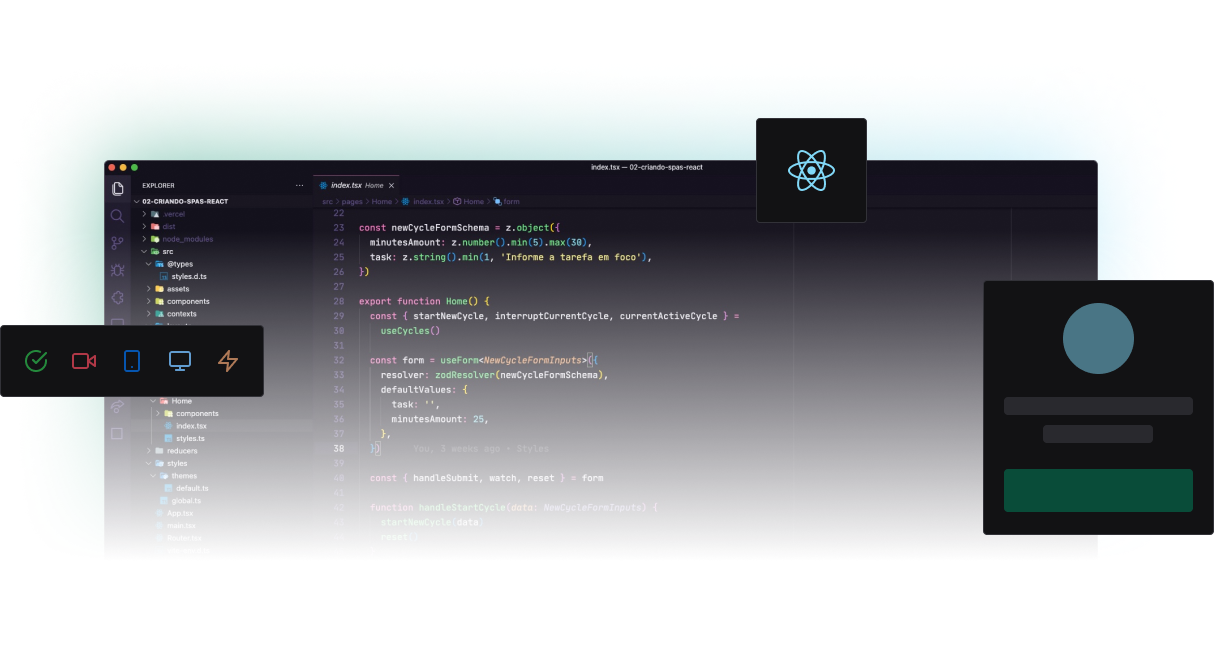
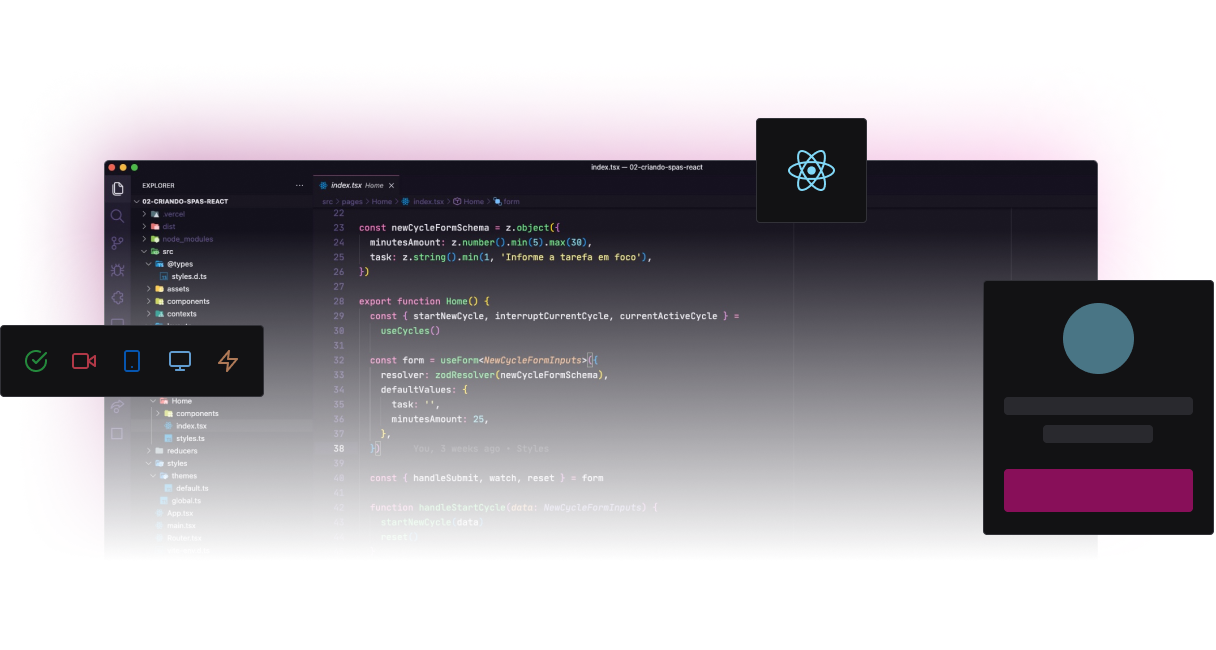
feat: 💄 update colors

diff --git a/src/components/Logo.tsx b/src/components/Logo.tsx
@@ -1,21 +1,6 @@
-export const Logo = () => {
-  return (
-    <svg
-      xmlns="http://www.w3.org/2000/svg"
-      width="237"
-      height="34"
-      fill="none"
-      viewBox="0 0 237 34"
-    >
-      <path
-        fill="#fff"
-        d="M.002 3.112a2.49 2.49 0 01.165-.987c.12-.314.304-.595.535-.83A2.906 2.906 0 012.615.572c.698 0 1.374.257 1.912.723.23.24.412.524.536.837a2.701 2.701 0 010 1.979 2.568 2.568 0 01-.536.837 2.889 2.889 0 01-1.907.723 2.901 2.901 0 01-1.908-.723 2.458 2.458 0 01-.538-.84 2.645 2.645 0 01-.172-.996zm4.96 23.146H.273V7.862h4.689v18.397zM8.012 16.973c0-2.853.686-5.145 2.055-6.883a6.653 6.653 0 015.528-2.606 5.869 5.869 0 014.802 2.09l.2-1.751h4.538v17.95a7.891 7.891 0 01-1.12 4.246 7.243 7.243 0 01-3.147 2.752 11.155 11.155 0 01-4.742.94c-1.378 0-2.74-.279-4.008-.812a7.08 7.08 0 01-2.946-2.11l2.208-3.02a5.905 5.905 0 004.543 2.08 4.356 4.356 0 003.104-1.059 3.938 3.938 0 001.103-2.993v-.994a5.775 5.775 0 01-4.555 1.935 6.647 6.647 0 01-3.05-.652 6.615 6.615 0 01-2.408-1.967c-1.397-1.752-2.085-4.089-2.085-6.942v-.21h-.025l.005.006zm4.997.355a6.723 6.723 0 001.026 3.956 3.233 3.233 0 002.799 1.443c.651.045 1.3-.088 1.878-.39a3.52 3.52 0 001.396-1.305v-7.825a3.448 3.448 0 00-1.374-1.305 3.504 3.504 0 00-1.86-.39 3.28 3.28 0 00-1.61.365 3.22 3.22 0 00-1.219 1.103c-.688.975-1.036 2.418-1.036 4.348zM33.098 7.833l.158 2.196a6.527 6.527 0 012.371-1.927 6.38 6.38 0 012.971-.62c1.97 0 3.438.597 4.39 1.79.953 1.194 1.456 2.936 1.486 5.293v12.249h-4.962V14.683a3.367 3.367 0 00-.684-2.344 3.086 3.086 0 00-1.069-.598 3.008 3.008 0 00-1.211-.13 3.349 3.349 0 00-1.821.454c-.553.32-1.01.794-1.313 1.367v13.37H28.45V7.845l4.647-.012zM47.512 3.112a2.304 2.304 0 01.185-.988 2.42 2.42 0 01.59-.831A3.439 3.439 0 0150.404.57c.772 0 1.52.256 2.117.723.508.486.792 1.142.792 1.826 0 .683-.284 1.34-.792 1.826a3.417 3.417 0 01-2.11.723c-.77 0-1.517-.257-2.11-.723a2.47 2.47 0 01-.594-.839 2.342 2.342 0 01-.19-.994h-.005zm5.483 23.149h-5.18V7.86h5.18v18.4zM62.454 3.334v4.612h3.107v3.677h-3.107v9.382c-.05.53.091 1.063.395 1.495a1.824 1.824 0 001.473.45c.476.002.95-.035 1.421-.114v3.803a9.672 9.672 0 01-2.939.449c-3.398 0-5.128-1.775-5.19-5.32V11.644h-2.642V7.968h2.643V3.356h4.841v-.025l-.002.003zM76.487 27.08a9.277 9.277 0 01-6.759-2.55c-1.74-1.699-2.605-3.957-2.605-6.797v-.494a11.295 11.295 0 011.098-5.08 8.141 8.141 0 013.111-3.465 8.72 8.72 0 014.59-1.22c2.577 0 4.62.815 6.098 2.449 1.478 1.633 2.226 3.94 2.226 6.929v2.055h-12.01a4.665 4.665 0 001.473 2.971 4.487 4.487 0 003.111 1.111 5.426 5.426 0 004.548-2.115l2.476 2.781a7.506 7.506 0 01-3.07 2.507 9.81 9.81 0 01-4.287.916v.002zm-.594-15.514a3.127 3.127 0 00-2.428 1.012 5.405 5.405 0 00-1.188 2.912h7.006v-.405a3.749 3.749 0 00-.908-2.608 3.252 3.252 0 00-2.45-.908h-.03l-.002-.003zM97.771 26.259h-4.957V0h4.957V26.26zM112.209 26.259c-.227-.444-.392-.997-.496-1.659-1.196 1.333-2.751 2.002-4.666 2.002-1.811 0-3.314-.523-4.504-1.572-1.191-1.049-1.786-2.372-1.786-3.966 0-1.96.725-3.464 2.179-4.513 1.453-1.049 3.553-1.58 6.3-1.59h2.273v-1.06c0-.854-.22-1.54-.659-2.051-.44-.513-1.131-.77-2.078-.77-.832 0-1.486.2-1.957.6-.474.4-.708.945-.708 1.64h-4.941c0-1.07.331-2.062.992-2.973.662-.91 1.597-1.626 2.804-2.144 1.206-.518 2.564-.778 4.069-.778 2.28 0 4.089.573 5.429 1.718 1.34 1.145 2.009 2.756 2.009 4.83v8.017c.012 1.754.256 3.082.735 3.983v.29h-4.992l-.003-.004zm-4.086-3.435c.728 0 1.402-.163 2.016-.486.614-.326 1.071-.76 1.367-1.308v-3.181h-1.846c-2.472 0-3.79.854-3.948 2.564l-.017.291c0 .614.217 1.123.649 1.523.434.4 1.026.6 1.779.6v-.003zM136.58 17.183c0 2.963-.632 5.273-1.898 6.931-1.265 1.659-3.032 2.488-5.3 2.488-2.006 0-3.608-.77-4.805-2.308l-.222 1.967h-4.444V.001h4.94v9.418c1.14-1.332 2.638-2 4.496-2 2.256 0 4.025.828 5.308 2.487 1.283 1.658 1.923 3.992 1.923 7v.274l.002.003zm-4.94-.358c0-1.868-.296-3.233-.889-4.094-.592-.861-1.475-1.29-2.65-1.29-1.572 0-2.655.643-3.247 1.932v7.299c.604 1.298 1.697 1.95 3.282 1.95 1.584 0 2.643-.788 3.146-2.36.239-.752.358-1.897.358-3.437z"
-      ></path>
-      <path
-        fill="#C4C4CC"
-        d="M164.51 17.501h-2.283v4.53h-2.048v-11.78h4.143c1.36 0 2.408.306 3.149.915.74.61 1.108 1.493 1.108 2.648 0 .787-.19 1.449-.57 1.98-.38.532-.911.94-1.59 1.226l2.646 4.906v.106h-2.194l-2.364-4.531h.003zm-2.283-1.65h2.105c.691 0 1.229-.176 1.619-.524.39-.348.582-.824.582-1.429 0-.604-.18-1.12-.538-1.466-.358-.345-.893-.523-1.606-.533h-2.162V15.85zM179.066 16.773h-4.839v3.625h5.656v1.634h-7.704V10.25h7.648v1.65h-5.6v3.253h4.839v1.62zM189.803 19.29h-4.565l-.955 2.744h-2.127l4.452-11.783h1.836l4.459 11.783h-2.137l-.963-2.744zm-3.99-1.65h3.415l-1.707-4.89-1.708 4.89zM204.716 18.197c-.119 1.256-.583 2.238-1.392 2.941-.81.703-1.885 1.056-3.228 1.056-.938 0-1.764-.222-2.48-.668-.715-.445-1.266-1.079-1.656-1.898-.387-.82-.589-1.772-.607-2.858v-1.1c0-1.11.198-2.09.59-2.937.392-.846.96-1.5 1.695-1.96.736-.458 1.587-.688 2.554-.688 1.301 0 2.347.353 3.139 1.057.792.703 1.254 1.7 1.385 2.99h-2.039c-.096-.846-.343-1.458-.74-1.833-.397-.375-.977-.563-1.745-.563-.89 0-1.574.326-2.05.977-.479.652-.721 1.605-.733 2.863v1.044c0 1.273.227 2.245.683 2.917.457.668 1.123 1.004 2.004 1.004.805 0 1.409-.18 1.814-.543.405-.363.661-.962.77-1.804h2.038l-.002.003zM216.481 11.902h-3.674v10.132h-2.031V11.902h-3.642V10.25h9.347v1.65zM222.759 10.251h2.039v8.262c0 1.127-.353 2.023-1.057 2.687-.703.664-1.633.995-2.788.995-1.229 0-2.179-.311-2.848-.93-.669-.62-1.004-1.484-1.004-2.59h2.038c0 .627.156 1.096.467 1.412.31.316.76.474 1.347.474.55 0 .989-.183 1.315-.545.326-.366.489-.867.489-1.51V10.25h.002zM234.952 18.999c0-.518-.183-.918-.545-1.197-.363-.279-1.022-.563-1.972-.849-.95-.286-1.705-.604-2.265-.955-1.074-.674-1.612-1.555-1.612-2.638 0-.95.388-1.732 1.163-2.347.774-.614 1.779-.922 3.015-.922.819 0 1.55.15 2.194.454a3.597 3.597 0 011.513 1.29c.367.558.55 1.177.55 1.858h-2.038c0-.614-.193-1.095-.578-1.443-.385-.348-.938-.524-1.656-.524-.668 0-1.189.144-1.557.43-.37.286-.555.686-.555 1.197 0 .432.2.792.6 1.08.399.29 1.056.57 1.974.842.918.271 1.653.582 2.208.93.556.348.963.748 1.222 1.197.259.452.387.977.387 1.582 0 .982-.375 1.762-1.127 2.342-.753.58-1.775.87-3.063.87a5.755 5.755 0 01-2.352-.473c-.715-.316-1.27-.75-1.668-1.308-.397-.555-.594-1.204-.594-1.942h2.048c0 .669.222 1.187.664 1.555.441.367 1.075.55 1.902.55.713 0 1.246-.143 1.607-.432.357-.288.538-.671.538-1.145l-.003-.002z"
-      ></path>
-      <path fill="#00B37E" d="M150.271 33.146h-4.958V.57h4.958v32.576z"></path>
-    </svg>
-  );
+import { ReactElement } from "react";
+import logoImg from "../../src/assets/eventx.svg";
+
+export const Logo = (): ReactElement => {
+  return <img src={logoImg} alt="" width={144} />;
 };

diff --git a/src/components/Video.tsx b/src/components/Video.tsx
@@ -55,7 +55,7 @@ export const Video = (): ReactElement => {
             {data.lesson.teacher && (
               <div className="flex items-center gap-4 mt-6">
                 <img
-                  className="h-16 w-16 rounded-full border-2 border-blue-500"
+                  className="h-16 w-16 rounded-full border-2 border-pink-500"
                   src={data.lesson.teacher.avatarURL}
                   alt={data.lesson.teacher.name}
                 />
@@ -75,7 +75,7 @@ export const Video = (): ReactElement => {
           <div className="flex flex-col gap-4">
             <a
               href=""
-              className="p-4 text-sm bg-green-500 flex items-center rounded font-bold uppercase gap-2 justify-center hover:bg-green-700 transition-colors"
+              className="p-4 text-sm bg-pink-500 flex items-center rounded font-bold uppercase gap-2 justify-center hover:bg-pink-700 transition-colors"
             >
               <DiscordLogo size={24} />
               Discord
@@ -96,7 +96,7 @@ export const Video = (): ReactElement => {
             href=""
             className="bg-gray-700 rounded overflow-hidden flex items-stretch gap-6 hover:bg-gray-600 transition-colors"
           >
-            <div className="bg-green-700 h-full p-6 flex items-center">
+            <div className="bg-pink-700 h-full p-6 flex items-center">
               <FileArrowDown size={40} />
             </div>
             <div className="py-6 leading-relaxed">
@@ -115,7 +115,7 @@ export const Video = (): ReactElement => {
             href=""
             className="bg-gray-700 rounded overflow-hidden flex items-stretch gap-6 hover:bg-gray-600 transition-colors"
           >
-            <div className="bg-green-700 h-full p-6 flex items-center">
+            <div className="bg-pink-700 h-full p-6 flex items-center">
               <FileArrowDown size={40} />
             </div>
             <div className="py-6 leading-relaxed">

diff --git a/src/pages/Subscribe.tsx b/src/pages/Subscribe.tsx
@@ -1,10 +1,10 @@
 import { FormEvent, ReactElement, useState } from "react";
 import { useNavigate } from "react-router-dom";
 
-import { Logo } from "../components";
 import { useCreateSubscriberMutation } from "../graphql/generated";
 
-import imgUrl from "../../src/assets/code-mockup.png";
+import { Logo } from "../components";
+import codeMockupImg from "../../src/assets/code-mockup.png";
 
 export const Subscribe = (): ReactElement => {
   const [name, setName] = useState("");
@@ -35,8 +35,8 @@ export const Subscribe = (): ReactElement => {
 
           <h1 className="mt-8 text-[2.5rem] leading-tight">
             Build a{" "}
-            <strong className="text-blue-500">complete application</strong> from
-            scratch with <strong className="text-blue-500">React</strong>
+            <strong className="text-pink-300">complete application</strong> from
+            scratch with <strong className="text-pink-300">React</strong>
           </h1>
           <p className="mt-4 text-gray-200 leading-relaxed">
             In just one week you will master in practice one of the most used
@@ -68,7 +68,7 @@ export const Subscribe = (): ReactElement => {
             <button
               type="submit"
               disabled={loading}
-              className="mt-4 bg-green-500 uppercase py-4 rounded font-bold text-sm hover:bg-green-700 transition-colors disabled:opacity-50"
+              className="mt-4 bg-pink-500 uppercase py-4 rounded font-bold text-sm hover:bg-pink-700 transition-colors disabled:opacity-50"
             >
               Secure my spot
             </button>
@@ -76,7 +76,7 @@ export const Subscribe = (): ReactElement => {
         </div>
       </div>
 
-      <img src={imgUrl} alt="React code mockup" />
+      <img src={codeMockupImg} alt="React code mockup" />
     </div>
   );
 };

diff --git a/src/components/Lesson.tsx b/src/components/Lesson.tsx
@@ -31,12 +31,11 @@ export const Lesson = ({
       <span className="text-gray-300">{formattedAvailableAt}</span>
 
       <div
-        className={classNames(
-          "rounded border border-gray-500 p-4 mt-2 group-hover:border-green-500",
-          {
-            "bg-green-500": isActiveLesson,
-          }
-        )}
+        className={classNames("rounded border border-gray-500 p-4 mt-2 ", {
+          "group-hover:border-blue-500": !isActiveLesson,
+          "group-hover:border-pink-500": isActiveLesson,
+          "bg-pink-500": isActiveLesson,
+        })}
       >
         <header className="flex items-center justify-between">
           {isLessonAvailable ? (
@@ -53,7 +52,7 @@ export const Lesson = ({
               Available
             </span>
           ) : (
-            <span className="text-sm text-orange-500 font-medium flex items-center gap-2">
+            <span className="text-sm text-pink-300 font-medium flex items-center gap-2">
               <Lock size={20} />
               Soon
             </span>
@@ -64,7 +63,7 @@ export const Lesson = ({
               "text-xs rounded px-2 py-[0.125rem] text-white border font-bold",
               {
                 "border-white": isActiveLesson,
-                "border-green-300": !isActiveLesson,
+                "border-blue-500": !isActiveLesson,
               }
             )}
           >

diff --git a/tailwind.config.js b/tailwind.config.js
@@ -4,25 +4,19 @@ module.exports = {
   theme: {
     extend: {
       backgroundImage: {
-        blur: "url(/src/assets/blur-background.png)",
+        blur: "url(/src/assets/blur.png)",
       },
       fontFamily: {
         sans: "Roboto, sans-serif",
       },
       colors: {
-        green: {
-          300: "#00B37E",
-          500: "#00875F",
-          700: "#015F43",
+        pink: {
+          300: "#FC3FBA",
+          500: "#AF2C82",
+          700: "#96266F",
         },
         blue: {
           500: "#81D8F7",
-        },
-        orange: {
-          500: "#FBA94C",
-        },
-        red: {
-          500: "#F75A68",
         },
         gray: {
           100: "#E1E1E6",

diff --git a/src/components/Header.tsx b/src/components/Header.tsx
@@ -3,7 +3,7 @@ import { Logo } from "./Logo";
 
 export const Header = () => {
   return (
-    <header className="w-full py-12 flex items-center justify-center bg-gray-700 border-b border-gray-600">
+    <header className="w-full py-8 flex items-center justify-center bg-gray-700 border-b border-gray-600">
       <Link to="/">
         <Logo />
       </Link>

diff --git a/README.md b/README.md
@@ -1,0 +1,89 @@
+<h1 align="center">
+  👽 EventX
+</h1>
+
+<p align="center">
+  <img alt="GitHub top language" src="https://img.shields.io/github/languages/top/amanda-santos/eventx">
+
+  <img alt="Repository size" src="https://img.shields.io/github/repo-size/amanda-santos/eventx">
+
+  <a href="https://github.com/amanda-santos/eventx/commits/master">
+    <img alt="GitHub last commit" src="https://img.shields.io/github/last-commit/amanda-santos/eventx">
+  </a>
+
+  <a href="https://github.com/amanda-santos/eventx/issues">
+    <img alt="Repository issues" src="https://img.shields.io/github/issues/amanda-santos/eventx">
+  </a>
+
+  <img alt="GitHub" src="https://img.shields.io/github/license/amanda-santos/eventx">
+</p>
+
+<p align="center">
+  <a href="#-about-the-project">About the project</a>&nbsp;&nbsp;&nbsp;|&nbsp;&nbsp;&nbsp;
+  <a href="#-technologies">Technologies</a>&nbsp;&nbsp;&nbsp;|&nbsp;&nbsp;&nbsp;
+  <a href="#-getting-started">Getting started</a>&nbsp;&nbsp;&nbsp;|&nbsp;&nbsp;&nbsp;
+  <a href="#-how-to-contribute">How to contribute</a>&nbsp;&nbsp;&nbsp;|&nbsp;&nbsp;&nbsp;
+  <a href="#-license">License</a>
+</p>
+
+## 📝 About the project
+
+<p>EventX is a platform to help you publish and manage your events, adding lessons with videos, publishing date, subscription, etc. Developed during Ignite Lab (Rocketseat).</p>
+
+## 👩🏻💻 Technologies
+
+Technologies used to develop this project:
+
+- React
+- TypeScript
+- GraphQL
+- GraphCMS
+- GraphQL CodeGen
+- Apollo GraphQL
+- TailwindCSS
+
+## ⌨ Getting started
+
+- Run `npm i` or `yarn` to install the dependencies
+- Run the development server with `npm run dev` or `yarn dev`
+
+## 🖥 Preview
+
+
+
+## 🤔 How to contribute
+
+**Make a fork of this repository**
+
+```bash
+# Fork using GitHub official command line
+# If you don't have the GitHub CLI, use the web site to do that.
+
+$ gh repo fork amanda-santos/eventx
+```
+
+**Follow the steps below**
+
+```bash
+# Clone your fork
+$ git clone your-fork-url && cd eventx
+
+# Create a branch with your feature
+$ git checkout -b my-feature
+
+# Make the commit with your changes
+$ git commit -m 'feat: My new feature'
+
+# Send the code to your remote branch
+$ git push origin my-feature
+```
+
+After your pull request is merged, you can delete your branch
+
+## 📝 License
+
+This project is licensed under the MIT License - see the [LICENSE](LICENSE) file for details.
+
+---
+
+Made with 💜 by Amanda Santos <br />
